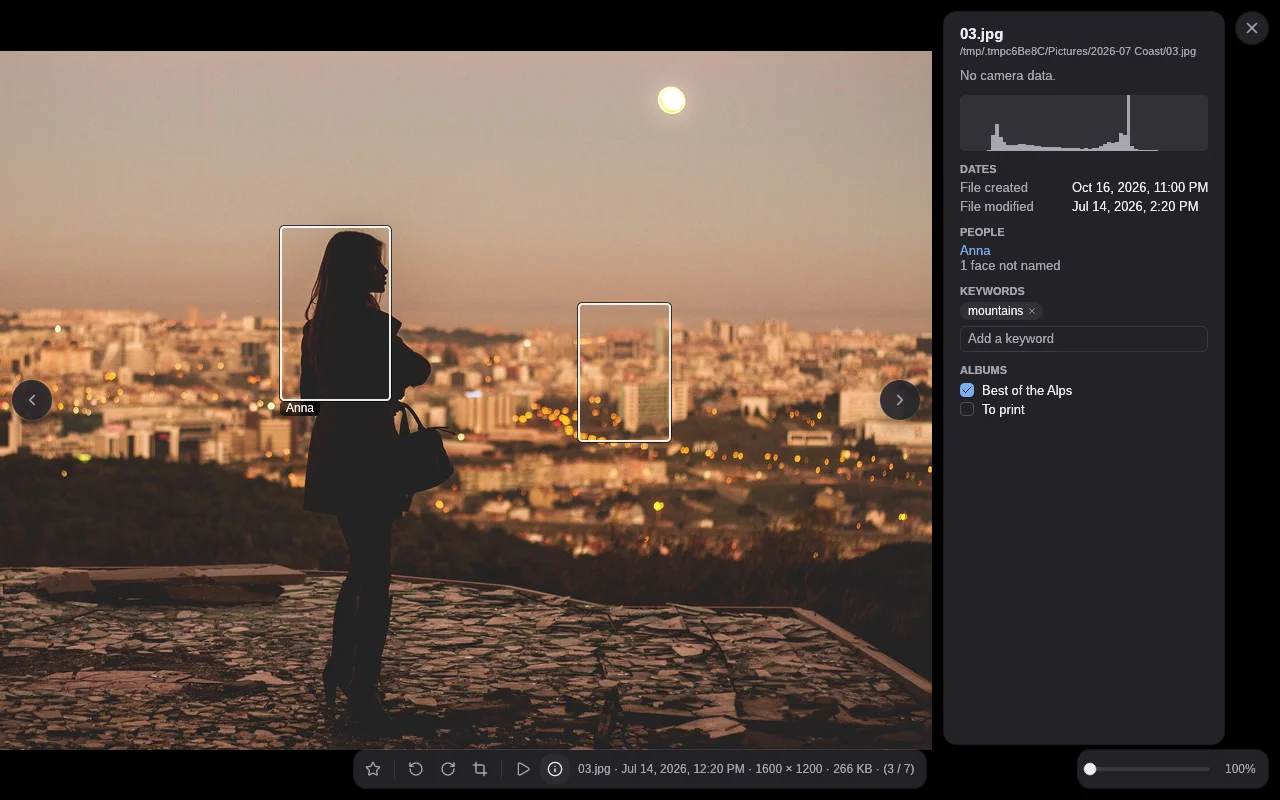
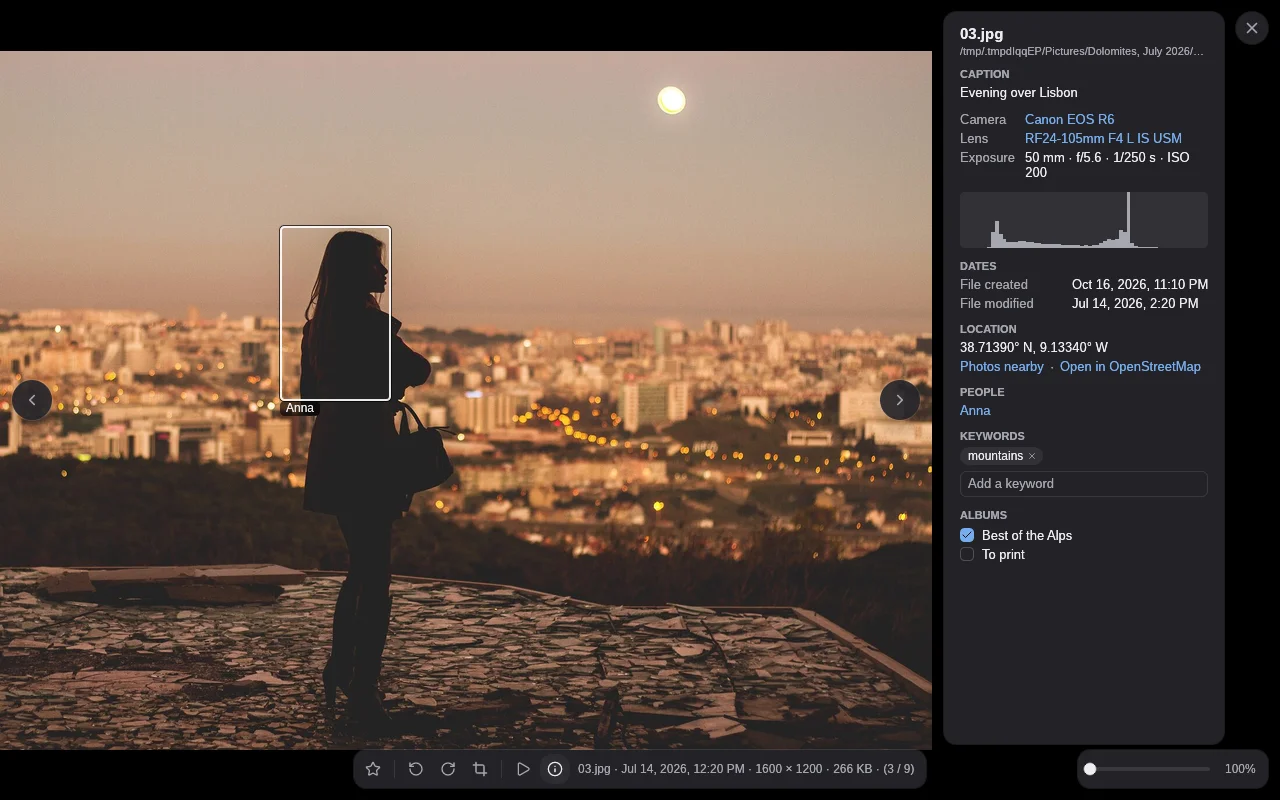
fix(ui): what the review of the pictures found
- The website's pictures were the tests' library: folders named in other scripts to
  test the text, no star, no video, no copy, and a viewer with "No camera data." and
  an outline on the skyline. They are drawn over a library of their own now (`SITE`:
  folders named as people name them, three photos starred, two videos, a copy) and the
  viewer's photo has a caption, a camera, a lens, an exposure and a place, with Anna's
  face alone - what the figcaption and the alt text say, which is the old alt text
  again.
- The pinned header was the first folder's at the end of a library hardly taller than
  the window: drawn at Large tiles, it is a folder's further down, over its photos.
- `thumbnails_in` passed with tiles marked as having no picture, which count as
  settled: it waits for none to be marked.
- The stand-in video was 16:9 and 42 seconds over a file the library reads as 4:3 and
  four; both videos showed one photo.

Changed region(s): [[0.75, 0.0625, 0.9375, 0.7188], [0.4375, 0.5312, 0.5312, 0.5625], [0.4375, 0.375, 0.5312, 0.4062]]

diff --git a/site/index.html b/site/index.html
@@ -226,7 +226,7 @@
   </div>
 
   <figure>
-    <img src="img/viewer-info-light.webp" width="1280" height="800" loading="lazy" alt="photon's viewer with the info panel open beside the photo, listing its name, a histogram, its dates, the people in it, its keywords and albums, with a face outlined and named in the photo">
+    <img src="img/viewer-info-light.webp" width="1280" height="800" loading="lazy" alt="photon's viewer with the info panel open, listing the caption, camera, lens, exposure, a histogram, dates, location, people, keywords and albums">
     <figcaption>The viewer's info panel: caption, camera data and histogram, every date a photo has, where it was taken, people, keywords and albums.</figcaption>
   </figure>
 

diff --git a/crates/photon-ui/tests/screenshots.rs b/crates/photon-ui/tests/screenshots.rs
@@ -43,6 +43,8 @@ fn manifest() -> &'static Path {
 #[derive(Clone, Copy)]
 struct Setup {
     size: egui::Vec2,
+    /// The folders, as `FOLDERS` holds them.
+    folders: &'static [(&'static str, usize, (i16, i8, i8))],
     /// Two videos at the end of the first folder, played by `Films`.
     videos: bool,
     /// A copy of the first folder's first photo, the last of the second folder's.
@@ -51,20 +53,32 @@ struct Setup {
 
 const WINDOW: Setup = Setup {
     size: vec2(1280.0, 1000.0),
+    folders: &FOLDERS,
     videos: false,
     copy: false,
 };
 
-/// The website's pictures (`site/img`), which stand 1280 by 800 in its page.
+/// The website's pictures (`site/img`), which stand 1280 by 800 in its page: a library
+/// as someone's is, with folders named as people name them - not the other scripts the
+/// rest are named in to test the text - its videos and a copy.
 const SITE: Setup = Setup {
     size: vec2(1280.0, 800.0),
-    ..WINDOW
+    folders: &SITE_FOLDERS,
+    videos: true,
+    copy: true,
 };
+
+const SITE_FOLDERS: [(&str, usize, (i16, i8, i8)); 4] = [
+    ("Dolomites, July 2026", 7, (2026, 7, 14)),
+    ("Spring in the Alps", 5, (2024, 4, 3)),
+    ("Austria in August", 5, (2024, 8, 21)),
+    ("Winter lakes", 6, (2025, 12, 31)),
+];
 
 impl Setup {
     /// How many photos and videos the library holds.
     fn total(&self) -> usize {
-        let photos: usize = FOLDERS.iter().map(|(_, count, _)| count).sum();
+        let photos: usize = self.folders.iter().map(|(_, count, _)| count).sum();
         photos + 2 * usize::from(self.videos) + usize::from(self.copy)
     }
 }
@@ -95,7 +109,7 @@ fn library(pictures: &Path, setup: Setup) {
         .collect();
     photos.sort();
     let mut photos = photos.into_iter();
-    for (folder, count, (year, month, day)) in FOLDERS {
+    for &(folder, count, (year, month, day)) in setup.folders {
         let folder = pictures.join(folder);
         std::fs::create_dir_all(&folder).unwrap();
         for (n, photo) in photos.by_ref().take(count).enumerate() {
@@ -105,7 +119,7 @@ fn library(pictures: &Path, setup: Setup) {
             date(&copy, (year, month, day), 10 * n as u64);
         }
     }
-    let (first, _, first_day) = FOLDERS[0];
+    let (first, _, first_day) = setup.folders[0];
     if setup.videos {
         // The video tests' own files, so that the library reads a size and a length from
         // each; what they show is `Films`'s, a photo, and not their test patterns.
@@ -119,7 +133,7 @@ fn library(pictures: &Path, setup: Setup) {
         }
     }
     if setup.copy {
-        let (second, _, second_day) = FOLDERS[1];
+        let (second, _, second_day) = setup.folders[1];
         let mut firsts: Vec<PathBuf> = std::fs::read_dir(pictures.join(first))
             .unwrap()
             .map(|entry| entry.unwrap().path())
@@ -134,8 +148,10 @@ fn library(pictures: &Path, setup: Setup) {
 
 /// A stand-in for the system's video: every poster and every frame is a photo of the
 /// library's, so that a video looks like one in a picture on any machine - this one has
-/// no decoder for an MP4, and a CI runner need not have one either.
-struct Films(egui::ColorImage);
+/// no decoder for an MP4, and a CI runner need not have one either. Four by three and four
+/// seconds long, as the video tests' files the library reads are; "Harbour" is another
+/// photo than "Waves".
+struct Films([egui::ColorImage; 2]);
 
 impl Films {
     fn new() -> std::sync::Arc<Self> {
@@ -146,24 +162,28 @@ impl Films {
             .filter(|path| path.extension().is_some_and(|ext| ext == "jpg"))
             .collect();
         photos.sort();
-        let photo = image::open(photos.last().unwrap()).unwrap().to_rgba8();
-        // Sixteen by nine, as a video is.
-        let (width, height) = (photo.width(), photo.width() * 9 / 16);
-        let top = (photo.height().saturating_sub(height)) / 2;
-        let frame =
-            image::imageops::crop_imm(&photo, 0, top, width, height.min(photo.height())).to_image();
-        std::sync::Arc::new(Films(egui::ColorImage::from_rgba_unmultiplied(
-            [frame.width() as usize, frame.height() as usize],
-            frame.as_raw(),
-        )))
+        let frame = |photo: &Path| {
+            let photo = image::open(photo).unwrap().to_rgba8();
+            let height = (photo.width() * 3 / 4).min(photo.height());
+            let top = (photo.height() - height) / 2;
+            let frame = image::imageops::crop_imm(&photo, 0, top, photo.width(), height).to_image();
+            egui::ColorImage::from_rgba_unmultiplied(
+                [frame.width() as usize, frame.height() as usize],
+                frame.as_raw(),
+            )
+        };
+        let n = photos.len();
+        std::sync::Arc::new(Films([frame(&photos[n - 1]), frame(&photos[n - 2])]))
     }
 
-    fn picture(&self, at: f64) -> photon_ui::video::Picture {
+    fn picture(&self, path: &Path, at: f64) -> photon_ui::video::Picture {
+        let harbour = path.to_string_lossy().contains("Harbour");
+        let image = &self.0[usize::from(harbour)];
         photon_ui::video::Picture {
-            width: self.0.size[0] as u32,
-            height: self.0.size[1] as u32,
+            width: image.size[0] as u32,
+            height: image.size[1] as u32,
             at,
-            rgba: self.0.as_raw().to_vec(),
+            rgba: image.as_raw().to_vec(),
         }
     }
 }
@@ -175,24 +195,24 @@ impl photon_ui::video::Videos for Films {
 
     fn poster(
         &self,
-        _: &Path,
+        path: &Path,
         at: f64,
     ) -> Result<photon_ui::video::Picture, photon_ui::video::Failure> {
-        Ok(self.picture(at))
+        Ok(self.picture(path, at))
     }
 
     fn open(
         &self,
-        _: &Path,
+        path: &Path,
     ) -> Result<Box<dyn photon_ui::video::Stream>, photon_ui::video::Failure> {
         Ok(Box::new(Reel {
-            frame: std::sync::Mutex::new(Some(self.picture(13.0))),
+            frame: std::sync::Mutex::new(Some(self.picture(path, 1.5))),
         }))
     }
 }
 
-/// A player that stands thirteen seconds into a video of forty-two, playing, and hands
-/// over its one frame once.
+/// A player that stands a second and a half into a video of four, playing, and hands over
+/// its one frame once.
 struct Reel {
     frame: std::sync::Mutex<Option<photon_ui::video::Picture>>,
 }
@@ -207,10 +227,10 @@ impl photon_ui::video::Stream for Reel {
     fn set_volume(&self, _: f64) {}
     fn set_muted(&self, _: bool) {}
     fn position(&self) -> Option<f64> {
-        Some(13.0)
+        Some(1.5)
     }
     fn duration(&self) -> Option<f64> {
-        Some(42.0)
+        Some(4.0)
     }
     fn ended(&self) -> bool {
         false
@@ -326,7 +346,7 @@ fn shot_of(theme: ThemeChoice, name: &str, setup: Setup, then: impl Fn(&mut Harn
     let total = setup.total();
     until(&mut harness, "the library shown", |app| {
         let shown = app.last_frame().is_some_and(|frame| frame.settled);
-        app.photos() == total && app.folders().len() >= FOLDERS.len() && shown
+        app.photos() == total && app.folders().len() >= setup.folders.len() && shown
     });
     collect(&mut harness, total);
     then(&mut harness, &db);
@@ -990,6 +1010,12 @@ fn native_viewer_info_dark() {
 /// the skyline beside her, where there is no face - it is there to show what an outline
 /// that can be pressed looks like.
 fn with_faces(harness: &mut Harness<'_>, db: &Path) {
+    faces_on(harness, db, true);
+}
+
+/// Anna's face on the third photo, and with `unnamed` the outline on the skyline, then
+/// the viewer on it with its panel open.
+fn faces_on(harness: &mut Harness<'_>, db: &Path, unnamed: bool) {
     use photon_core::face_detect::{DETECTOR_VERSION, Detection, Rect};
     let id = harness.state().shown()[2];
     let lib = Library::open(db).unwrap();
@@ -1018,7 +1044,11 @@ fn with_faces(harness: &mut Harness<'_>, db: &Path) {
     let batch: Vec<_> = (photos.into_iter())
         .map(|photo| {
             let faces = if photo.id == id {
-                vec![face(0.3, 0.25, 0.42, 0.5), face(0.62, 0.36, 0.72, 0.56)]
+                let mut faces = vec![face(0.3, 0.25, 0.42, 0.5)];
+                if unnamed {
+                    faces.push(face(0.62, 0.36, 0.72, 0.56));
+                }
+                faces
             } else {
                 Vec::new()
             };
@@ -1038,8 +1068,9 @@ fn with_faces(harness: &mut Harness<'_>, db: &Path) {
     informed(harness);
     harness.state().engine().refresh_grid().unwrap();
     until(harness, "the faces read", |app| {
-        (app.viewer_item())
-            .is_some_and(|item| item.faces.len() == 1 && item.unnamed_faces.len() == 1)
+        (app.viewer_item()).is_some_and(|item| {
+            item.faces.len() == 1 && item.unnamed_faces.len() == usize::from(unnamed)
+        })
     });
     harness.step();
 }
@@ -1674,8 +1705,10 @@ fn until_named(harness: &mut Harness<'_>, label: &str) {
 /// Steps until the grid has every thumbnail it shows, and has stopped asking for frames.
 fn thumbnails_in(harness: &mut Harness<'_>) {
     until(harness, "the thumbnails", |app| {
+        // A tile marked as having no picture counts as settled: a video's poster not
+        // made yet is asked for again only seconds later.
         app.last_frame()
-            .is_some_and(|frame| frame.settled && !frame.loading)
+            .is_some_and(|frame| frame.settled && !frame.loading && frame.marked == 0)
     });
     for _ in 0..10 {
         harness.step();
@@ -1693,7 +1726,7 @@ fn native_small_light() {
     });
 }
 
-// Scrolled into the second folder: its header pinned over the photos it heads, the
+// Scrolled into a folder further down: its header pinned over the photos it heads, the
 // sidebar marking the folder at the top.
 #[test]
 #[ignore = "renders through a GPU adapter: cargo run -p xtask -- native-shot"]
@@ -1702,16 +1735,22 @@ fn native_pinned_header_dark() {
         ThemeChoice::Dark,
         "native-pinned-header-dark.png",
         |harness| {
+            // At the largest tiles: at Medium the library is hardly taller than the window,
+            // and its end comes before the second folder can be scrolled into.
+            harness.get_by_label("Large").click();
+            harness.step();
             let over = egui::pos2(800.0, 500.0);
             harness.event(egui::Event::PointerMoved(over));
-            harness.event(egui::Event::MouseWheel {
-                unit: egui::MouseWheelUnit::Point,
-                delta: vec2(0.0, -260.0),
-                phase: egui::TouchPhase::Move,
-                modifiers: Modifiers::NONE,
-            });
-            for _ in 0..20 {
-                harness.step();
+            for _ in 0..4 {
+                harness.event(egui::Event::MouseWheel {
+                    unit: egui::MouseWheelUnit::Point,
+                    delta: vec2(0.0, -275.0),
+                    phase: egui::TouchPhase::Move,
+                    modifiers: Modifiers::NONE,
+                });
+                for _ in 0..20 {
+                    harness.step();
+                }
             }
             harness.event(egui::Event::PointerGone);
             thumbnails_in(harness);
@@ -1810,7 +1849,7 @@ fn native_site_main_light() {
         ThemeChoice::Light,
         "native-site-main-light.png",
         SITE,
-        |harness, _| thumbnails_in(harness),
+        |harness, _| lived_in(harness),
     );
 }
 
@@ -1821,7 +1860,7 @@ fn native_site_main_dark() {
         ThemeChoice::Dark,
         "native-site-main-dark.png",
         SITE,
-        |harness, _| thumbnails_in(harness),
+        |harness, _| lived_in(harness),
     );
 }
 
@@ -1832,6 +1871,36 @@ fn native_site_viewer_info_light() {
         ThemeChoice::Light,
         "native-site-viewer-info-light.png",
         SITE,
-        with_faces,
+        |harness, db| {
+            lived_in(harness);
+            // What a camera writes and the scan would have read: these photos carry none.
+            let id = harness.state().shown()[2];
+            let conn = rusqlite::Connection::open(db).unwrap();
+            conn.execute(
+                "UPDATE items SET caption = 'Evening over Lisbon', make = 'Canon', \
+                 model = 'Canon EOS R6', lens = 'RF24-105mm F4 L IS USM', focal_mm = 50, \
+                 aperture = 5.6, exposure_s = 0.004, iso = 200, \
+                 gps_lat = 38.7139, gps_lon = -9.1334 WHERE id = ?1",
+                [id],
+            )
+            .unwrap();
+            harness.state().engine().refresh_grid().unwrap();
+            faces_on(harness, db, false);
+        },
     );
+}
+
+/// The site's library as someone's is: a few photos starred, and the thumbnails in.
+fn lived_in(harness: &mut Harness<'_>) {
+    let engine = harness.state().engine().clone();
+    let shown = harness.state().shown();
+    commands::set_stars(&engine, &[shown[0], shown[3], shown[11]], true).unwrap();
+    until(harness, "the stars", |app| {
+        let (_, index) = app.engine().grid();
+        (index.rows(0, index.len()).iter())
+            .filter(|entry| entry.starred)
+            .count()
+            == 3
+    });
+    thumbnails_in(harness);
 }
